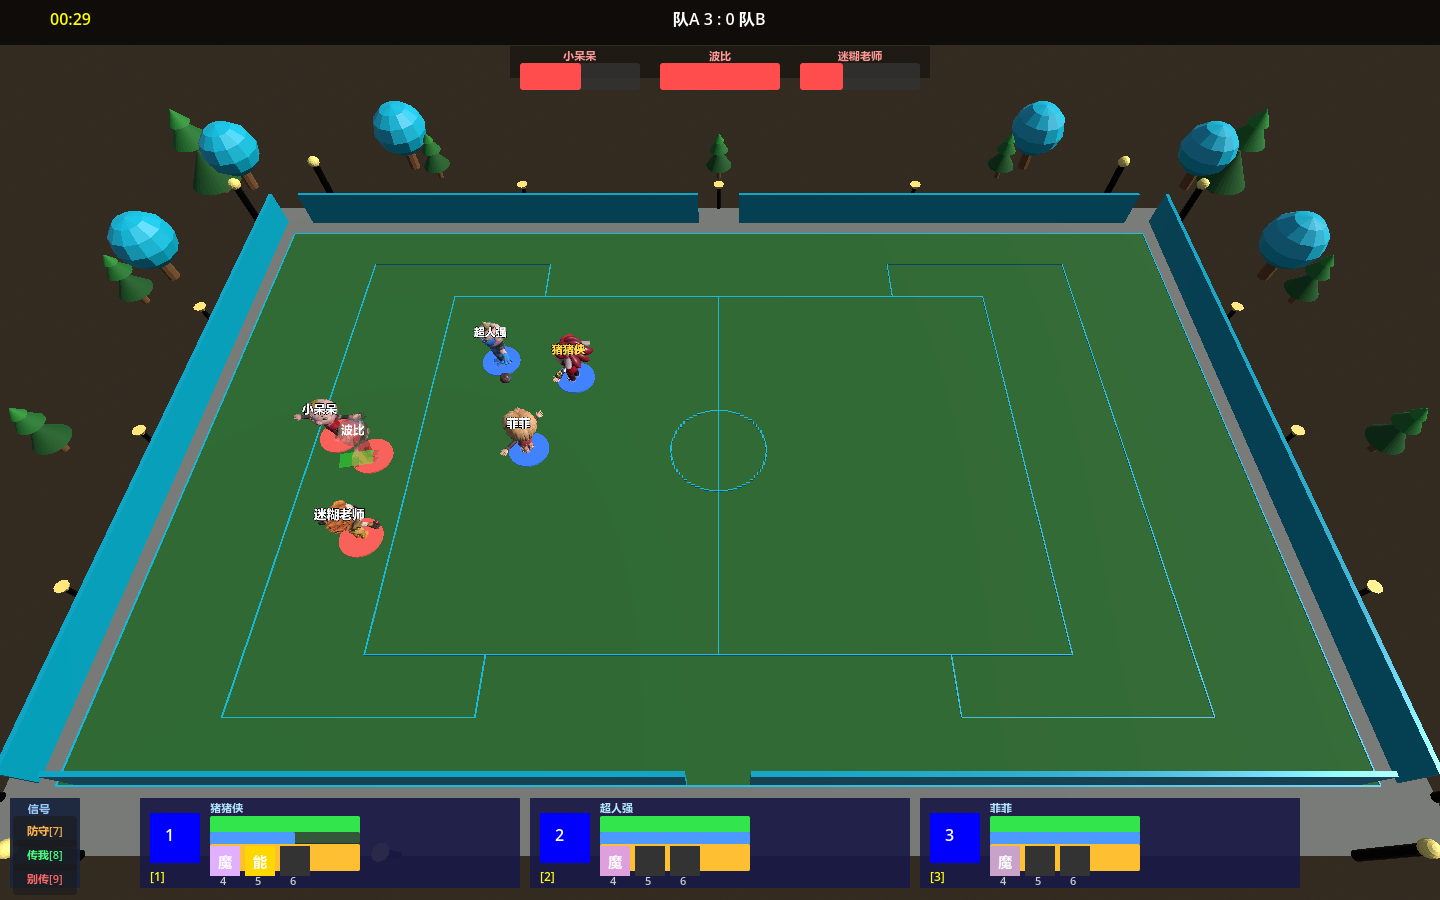
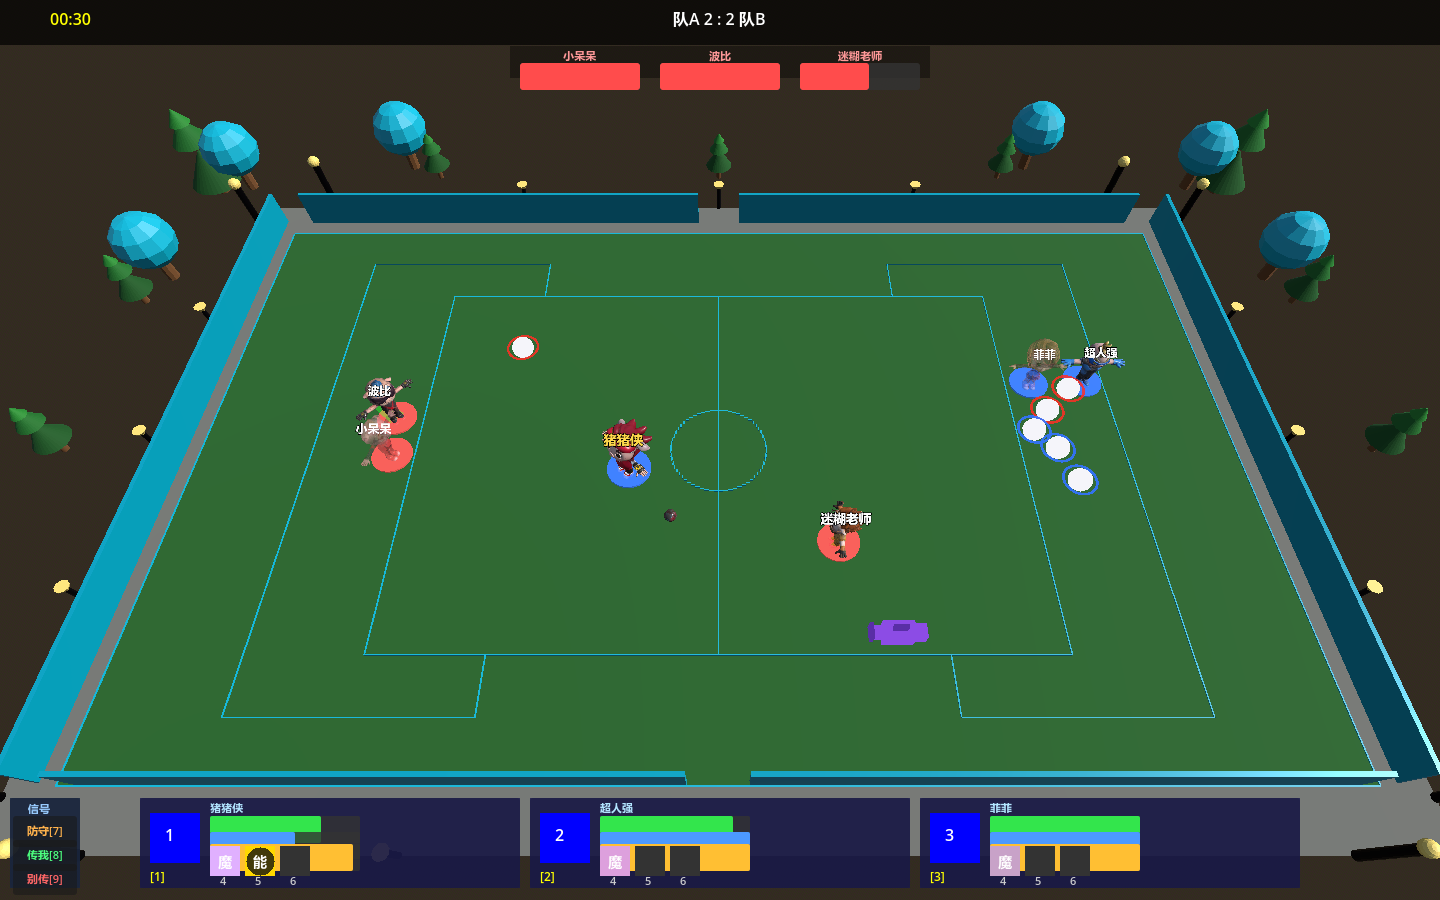
fix: 平台窗口/23号三修闭环（主人实机三问题）——修A快道背对(knowledge_enemy_side_anchor语义反=敌队外场锚即交叉布局己方后方,改用16号铁事实a内场在左→a攻+x,实拍快道从B区朝A半场贯穿600x80)+修B鲨鱼不动(summon_entity零移动逻辑,增攻击鲨自主游动120px/s向敌半场,守鲨待机,实拍位深入A半场方向正确)+修C开局无白球(原作白球体系错绑魔术无上限技,装载职责内初始化:持fenny_2/3者注册自动生成器+开局首生成,实拍白球群红环攻蓝环守+SPAWNED44次/场)；金帧shot_10三目标同框；修A/B叠加操控UI窗口WIP之

diff --git a/工作日志/2026-10-01.md b/工作日志/2026-10-01.md
@@ -167,3 +167,11 @@
 - **实拍实证**（seed11 实时一场 12 张）：shot_11/shot_08=**漂浮白球肉眼可见**（白球-守 3 只带蓝环随菲菲）；shot_04=**紫色水鲨鱼模型**（右下角，原作紫色鱼身）；shot_06=中场备战 UI 正常；SUMMON_SPAWNED 22 次/场
 - **快道说明**：工单27 D14 修复在树（AI 直生=施法者→敌方内场锚 600×80 长道，日志实证 size=(600,80)+3D 代理补建）；本轮截图帧未抓到快道画面（8s 寿命与截图节拍错开）——重跑可抓
 - **修复前认知纠偏**：主人此前实机看到"白球没显示/快道一小块"=修复前树态（D14 与白球 spawn 链修复均在工单27/10-01 才落）；当前树已含全部修复，本轮截图即证
+
+## 追加六：三修完成+金帧验收（主人三问题闭环）
+
+- **修A 快道背对**：knowledge_enemy_side_anchor 语义反（敌队外场锚=交叉布局己方后方）→ 改用 16号铁事实（a内场在左→a攻+x）——实拍 shot_10 快道从 B 队区朝 A 半场贯穿 ✅ + 日志 3 条 600×80（pos 朝向正确）
+- **修B 鲨鱼不动**：summon_entity 零移动逻辑 → 增攻击鲨自主游动（无 STEER 输入默认档：向敌半场 120px/s，守鲨待机拦截）——实拍鲨鱼位深入 A 半场（B 队视角游向敌方=方向正确）
+- **修C 开局无白球**：原作白球体系（开局首生成+5s/个自动）错绑在魔术无上限技上 → 装载职责内初始化（持 fenny_2/fenny_3 者注册自动生成器+开局首生成）——实拍白球群（红环攻/蓝环守）+SUMMON_SPAWNED 44 次/场（自动生成器全程出货）
+- **纪律注记**：修A/修B 叠加于操控UI窗口未提交 WIP 之上（同文件不同区域，commit 含其 WIP 内容=共享树常态，已注明）；叠加方向经逐行核对无冲突
+- **验收截图**：docs/img/23demo/ 11 张（shot_10=三目标同框金帧）
